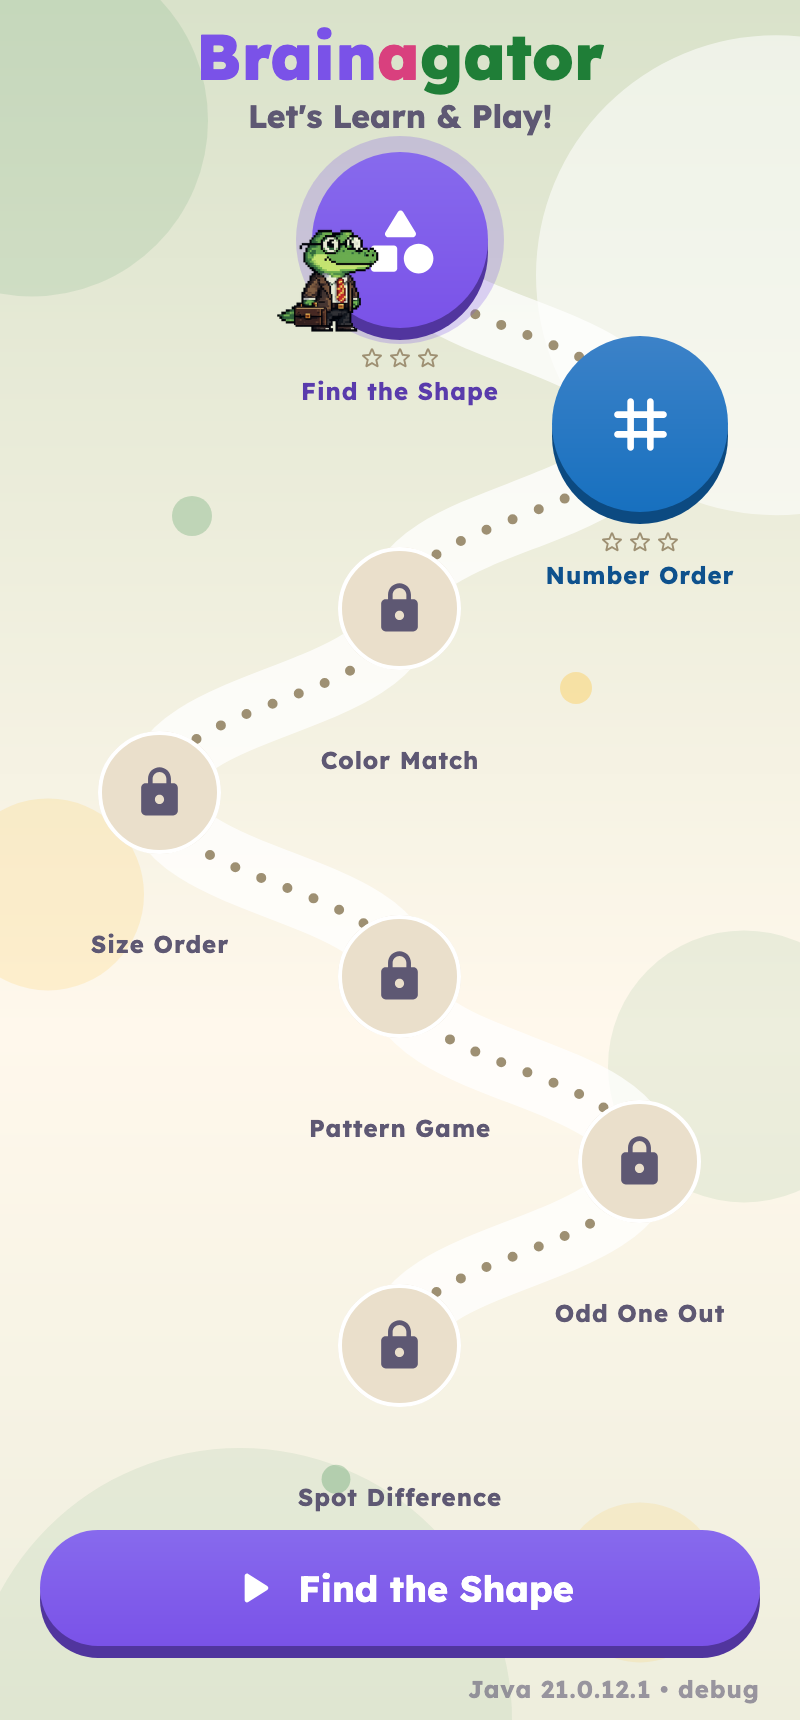
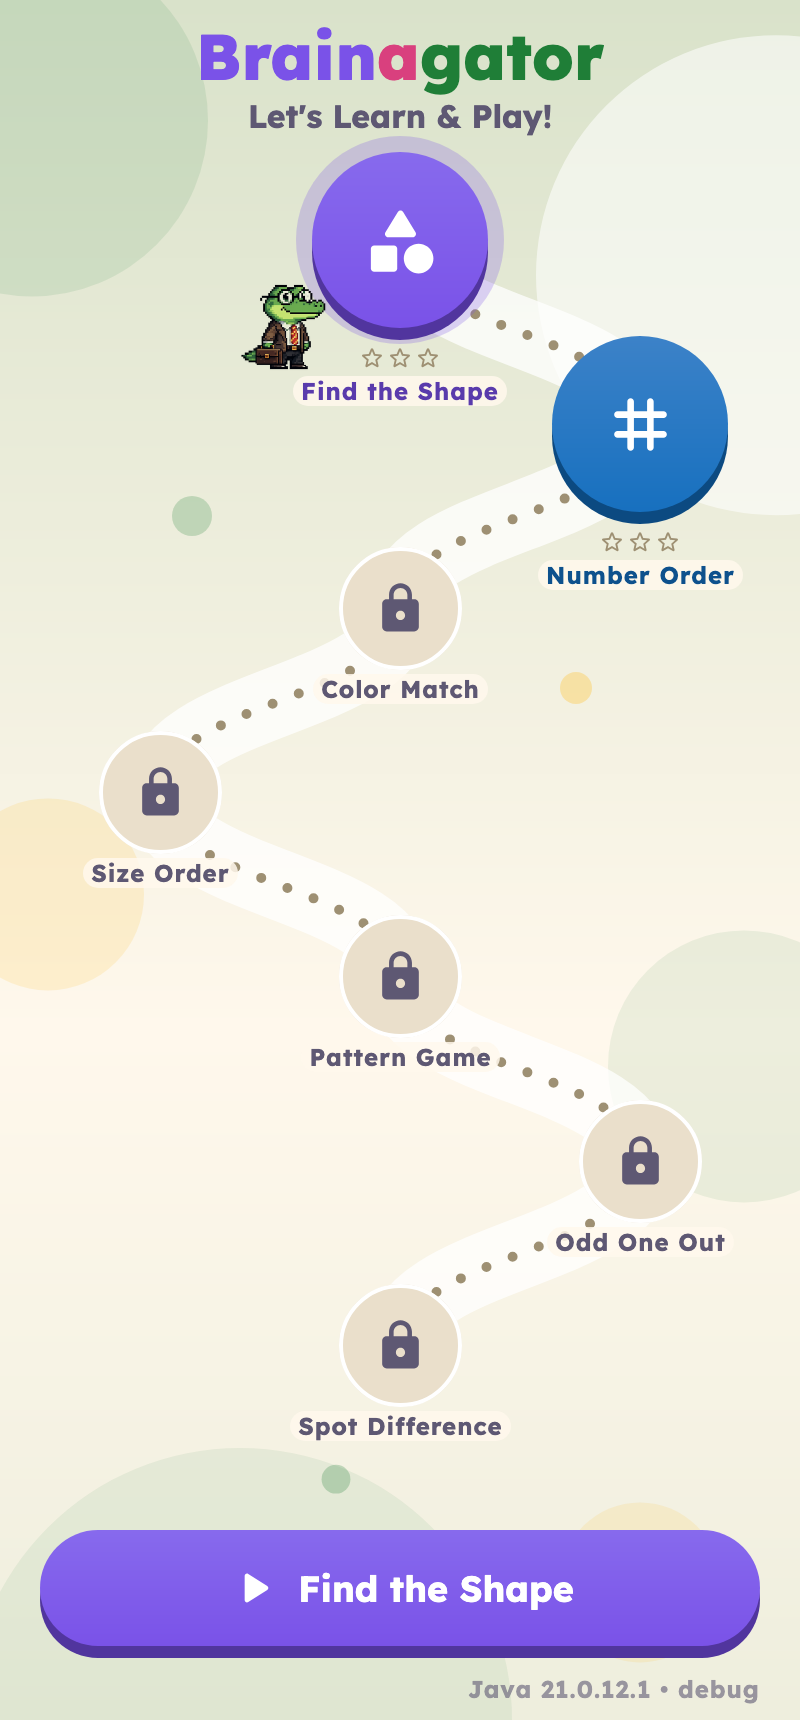
fix(ui): keep map labels next to their stops
Locked stones drop the empty stars row so their names sit right under them, labels get a soft backdrop over the trail, and the gator stands beside the suggested stop instead of covering its icon.

diff --git a/composeApp/src/commonMain/kotlin/io/github/karczews/brainagator/ui/screens/map/MapStop.kt b/composeApp/src/commonMain/kotlin/io/github/karczews/brainagator/ui/screens/map/MapStop.kt
@@ -80,11 +80,15 @@ private const val PULSE_SCALE = 1.06f
 private const val PULSE_MILLIS = 900
 private const val HALO_ALPHA = 0.25f
 private const val LABEL_DARKEN_FRACTION = 0.2f
+private const val LABEL_BACKDROP_ALPHA = 0.85f
 
-/** The gator is drawn this tall relative to the stop it stands at, and sticks out past it by this share of its width. */
-private const val RIDER_HEIGHT_FRACTION = 0.72f
+/**
+ * The gator is drawn this tall relative to the stop it stands beside, and this share of its width sits outside the
+ * stop: it only touches the circle's rim, never the icon, and still fits within the screen padding at the edges.
+ */
+private const val RIDER_HEIGHT_FRACTION = 0.6f
 private const val RIDER_ASPECT = 84f / 96f
-private const val RIDER_OVERHANG = 0.35f
+private const val RIDER_OVERHANG = 0.8f
 
 /**
  * One stop on the map: the game's round face, the stars won there this session and its name. Playable stops are
@@ -108,15 +112,16 @@ internal fun MapStop(
         horizontalAlignment = Alignment.CenterHorizontally,
         verticalArrangement = Arrangement.spacedBy(Dimens.spaceXs / 2),
     ) {
-        Box(modifier = Modifier.size(width = face, height = face + Dimens.lipHeight)) {
-            if (game.isComingSoon) {
-                // PROTOTYPE: release builds can't open unbuilt games; debug builds still can, to reach "Test: Trigger Win".
-                LockedStone(
-                    face = face,
-                    description = stringResource(Res.string.map_stop_locked, title),
-                    onClick = onClick.takeIf { isDebugBuild },
-                )
-            } else {
+        if (game.isComingSoon) {
+            // PROTOTYPE: release builds can't open unbuilt games; debug builds still can, to reach "Test: Trigger Win".
+            LockedStone(
+                face = face,
+                description = stringResource(Res.string.map_stop_locked, title),
+                onClick = onClick.takeIf { isDebugBuild },
+            )
+            StopLabel(title = title, width = labelWidth, color = MaterialTheme.colorScheme.onSurfaceVariant)
+        } else {
+            Box(modifier = Modifier.size(width = face, height = face + Dimens.lipHeight)) {
                 PlayableStop(
                     game = game,
                     face = face,
@@ -124,23 +129,34 @@ internal fun MapStop(
                     description = stringResource(Res.string.map_stop_stars, title, stars, MAX_STOP_STARS),
                     onClick = onClick,
                 )
+                if (isSuggested) {
+                    GatorRider(face = face, onEnd = riderOnEnd)
+                }
             }
-            if (isSuggested) {
-                GatorRider(face = face, onEnd = riderOnEnd)
-            }
+            StopStars(stars = stars)
+            StopLabel(title = title, width = labelWidth, color = game.accentColor.darken(LABEL_DARKEN_FRACTION))
         }
-        StopStars(stars = if (game.isComingSoon) null else stars)
+    }
+}
+
+/** A stop's name, right under it. May be wider than the stop itself: neighbouring labels never sit at the same height. */
+@Composable
+private fun StopLabel(
+    title: String,
+    width: Dp,
+    color: Color,
+) {
+    Box(modifier = Modifier.requiredWidth(width), contentAlignment = Alignment.Center) {
         Text(
             text = title,
-            // May be wider than the stop itself: neighbouring labels never sit at the same height.
-            modifier = Modifier.requiredWidth(labelWidth).clearAndSetSemantics {},
+            modifier =
+                Modifier
+                    // A soft backdrop keeps the trail's dots from running through the name.
+                    .background(MaterialTheme.colorScheme.background.copy(alpha = LABEL_BACKDROP_ALPHA), MaterialTheme.shapes.small)
+                    .padding(horizontal = Dimens.spaceXs)
+                    .clearAndSetSemantics {},
             style = MaterialTheme.typography.labelSmall,
-            color =
-                if (game.isComingSoon) {
-                    MaterialTheme.colorScheme.onSurfaceVariant
-                } else {
-                    game.accentColor.darken(LABEL_DARKEN_FRACTION)
-                },
+            color = color,
             textAlign = TextAlign.Center,
             maxLines = 1,
             autoSize =
@@ -189,19 +205,21 @@ private fun PlayableStop(
     }
 }
 
-/** A flat (lipless) stone: nothing to press until the game exists. */
+/**
+ * A flat (lipless) stone: nothing to press until the game exists. Smaller than a playable stop so the games you can
+ * play stand out, and centred where a stop's face would be, so the trail still runs through it.
+ */
 @Composable
 private fun LockedStone(
     face: Dp,
     description: String,
     onClick: (() -> Unit)?,
 ) {
-    // Smaller than playable stops, centred where a face would be, so the games you can play stand out.
     val stone = face * STONE_FRACTION
     Box(
         modifier =
             Modifier
-                .padding(start = (face - stone) / 2, top = (face - stone) / 2)
+                .padding(top = (face - stone) / 2)
                 .size(stone)
                 .background(MaterialTheme.colorScheme.outlineVariant, CircleShape)
                 .border(2.dp, MaterialTheme.colorScheme.surface, CircleShape)
@@ -218,7 +236,7 @@ private fun LockedStone(
     }
 }
 
-/** The pixel-art gator standing beside the stop it suggests, overlapping it a little. */
+/** The pixel-art gator standing beside the stop it suggests, just touching its rim. */
 @Composable
 private fun GatorRider(
     face: Dp,
@@ -227,32 +245,33 @@ private fun GatorRider(
     val height = face * RIDER_HEIGHT_FRACTION
     val width = height * RIDER_ASPECT
     val overhang = width * RIDER_OVERHANG
+    val x = if (onEnd) face - width + overhang else -overhang
+    // Feet level with the stop's stars, so its head stays below neighbouring labels.
+    val feet = face + StopExtraHeight - Dimens.mapStopLabelHeight
     Image(
         painter = painterResource(Res.drawable.gator_kid_in_suit_1),
         contentDescription = null,
         modifier =
             Modifier
                 .size(width = width, height = height)
-                .offset(x = if (onEnd) face - width + overhang else -overhang, y = face + Dimens.lipHeight - height),
+                .offset(x = x, y = feet - height),
     )
 }
 
-/** Stars won at a stop; locked stops ([stars] = null) keep the space empty so labels line up. */
+/** Stars won at a playable stop. */
 @Composable
-private fun StopStars(stars: Int?) {
+private fun StopStars(stars: Int) {
     val earnedFill = AppTheme.extendedColors.reward
     val earnedOutline = AppTheme.extendedColors.onReward
     val emptyOutline = MaterialTheme.colorScheme.outline
     Row(modifier = Modifier.height(Dimens.mapStopStar).clearAndSetSemantics {}) {
-        if (stars != null) {
-            repeat(MAX_STOP_STARS) { index ->
-                val isEarned = index < stars
-                Box(modifier = Modifier.size(Dimens.mapStopStar)) {
-                    if (isEarned) {
-                        StarIcon(filled = true, tint = earnedFill)
-                    }
-                    StarIcon(filled = false, tint = if (isEarned) earnedOutline else emptyOutline)
+        repeat(MAX_STOP_STARS) { index ->
+            val isEarned = index < stars
+            Box(modifier = Modifier.size(Dimens.mapStopStar)) {
+                if (isEarned) {
+                    StarIcon(filled = true, tint = earnedFill)
                 }
+                StarIcon(filled = false, tint = if (isEarned) earnedOutline else emptyOutline)
             }
         }
     }
